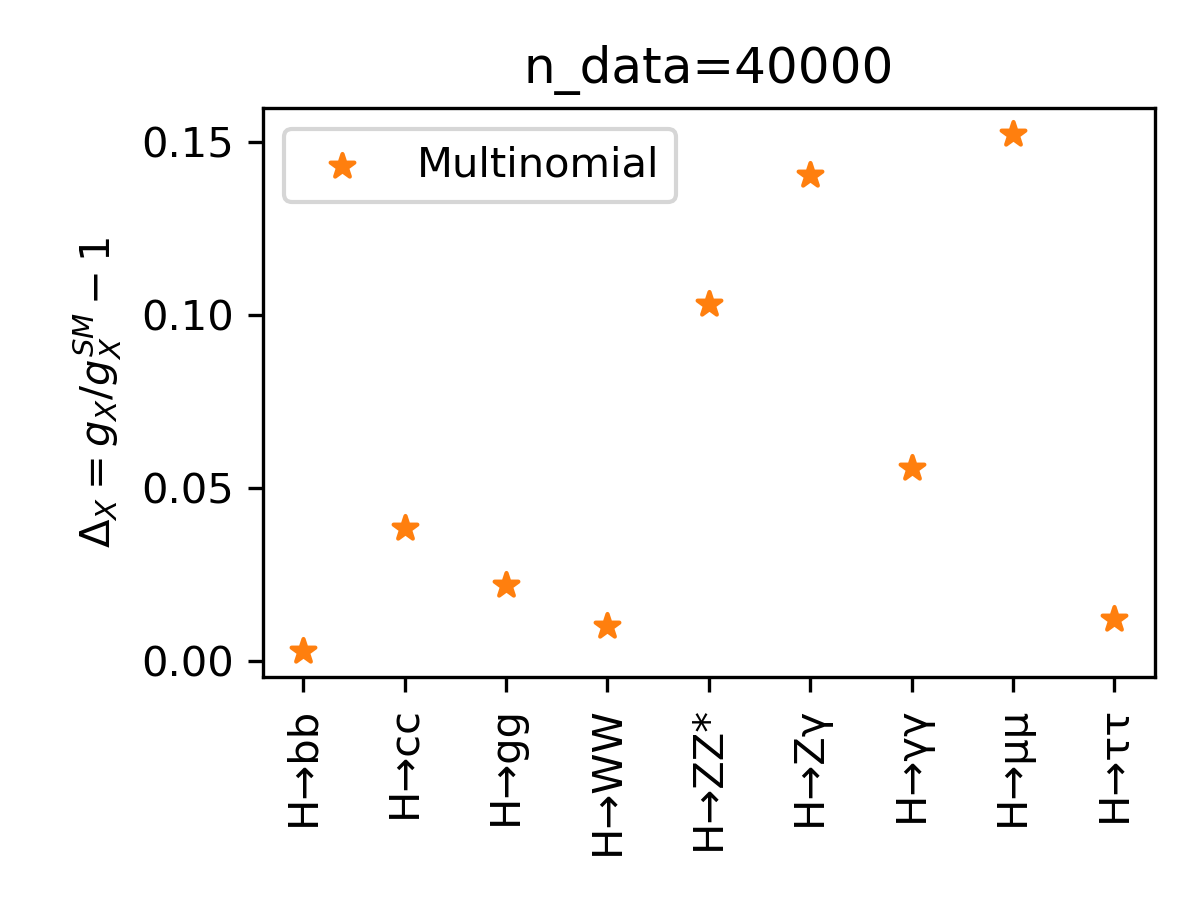
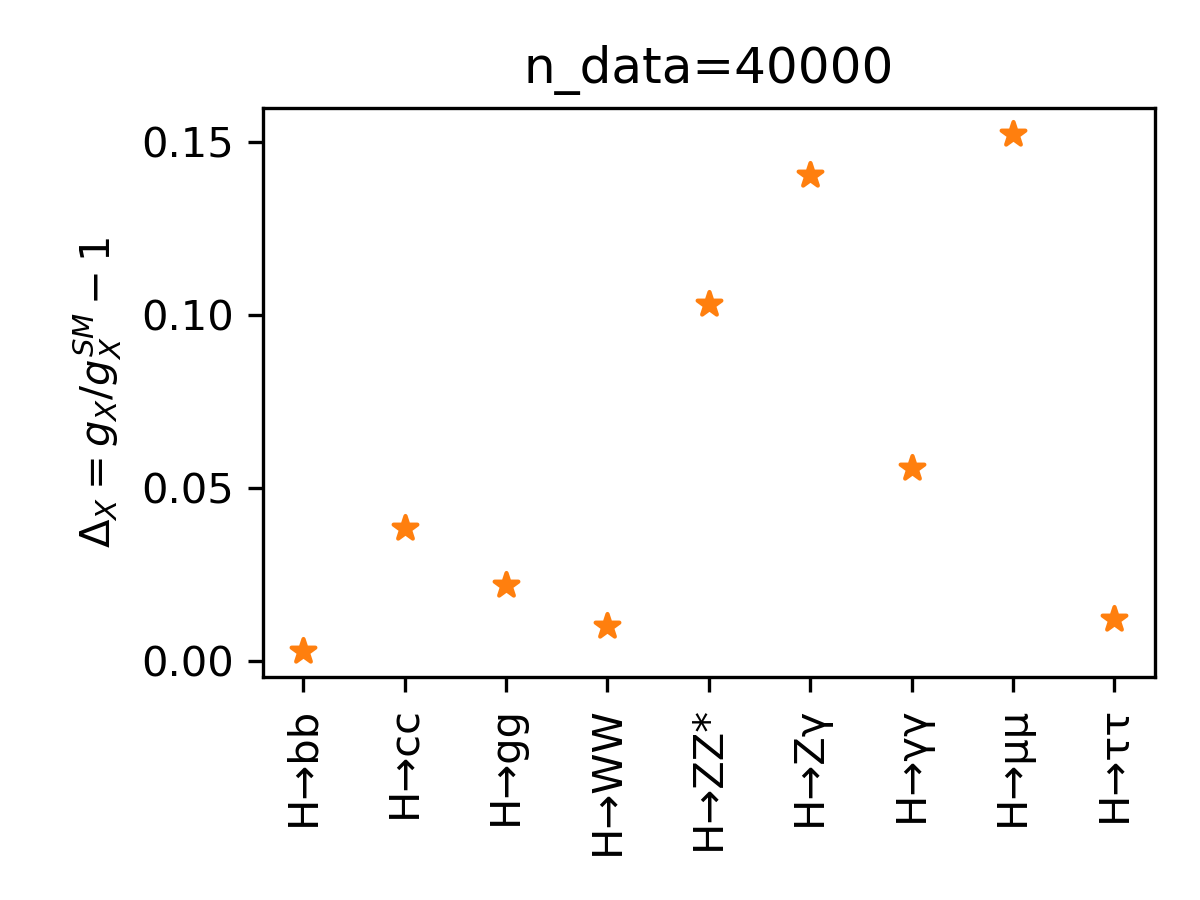
relative_error_plot is just a convenience wrapper.
Make this fact more obvious with this commit.

Changed region(s): [[0.2467, 0.1244, 0.5858, 0.2489], [0.2158, 0.1556, 0.2467, 0.2178]]

diff --git a/plot_factory/fit_plots.py b/plot_factory/fit_plots.py
@@ -31,19 +31,13 @@ def br_estimates_plot(m, data, n_data):
 
 
 def relative_error_plot(m, data, n_data, no_legend=False):
-    m_dict, br_idx, param_names, ordered_X0 = prepare_data(m, data)
-    fig, ax = plt.subplots(figsize=(4, 3))
-    for i, (m_name, mm) in enumerate(m_dict.items()):
-        x = shift_x(i, br_idx, len(m_dict))
-        y, y_err = get_val_and_err(mm, param_names, m_name)
-        Deltas = y_err / y / 2 # Factor 2 to go from BR or CS to coupling.
-        ax.scatter(x, Deltas, marker="*", color=f"C{i+1}",  label=m_name)
-    ax.set_ylabel("$\Delta_X = g_X / g_X^{SM} - 1$")
-    ax.set_xticks(br_idx)
-    ax.set_xticklabels(param_names, rotation=90)
-    if not no_legend:
-        ax.legend()#bbox_to_anchor=(1.05, 1), loc="upper left")
+    """ Just a convenience wrapper.
+    """
+    fig = comparison_with_others(m, data,
+        compare_to_global_couplings=False, draw_lines=False)
+    ax = fig.get_axes()[0]
     ax.set_title(f"n_data={n_data}")
+    ax.get_legend().remove()
     fig.tight_layout()
     return fig
 
